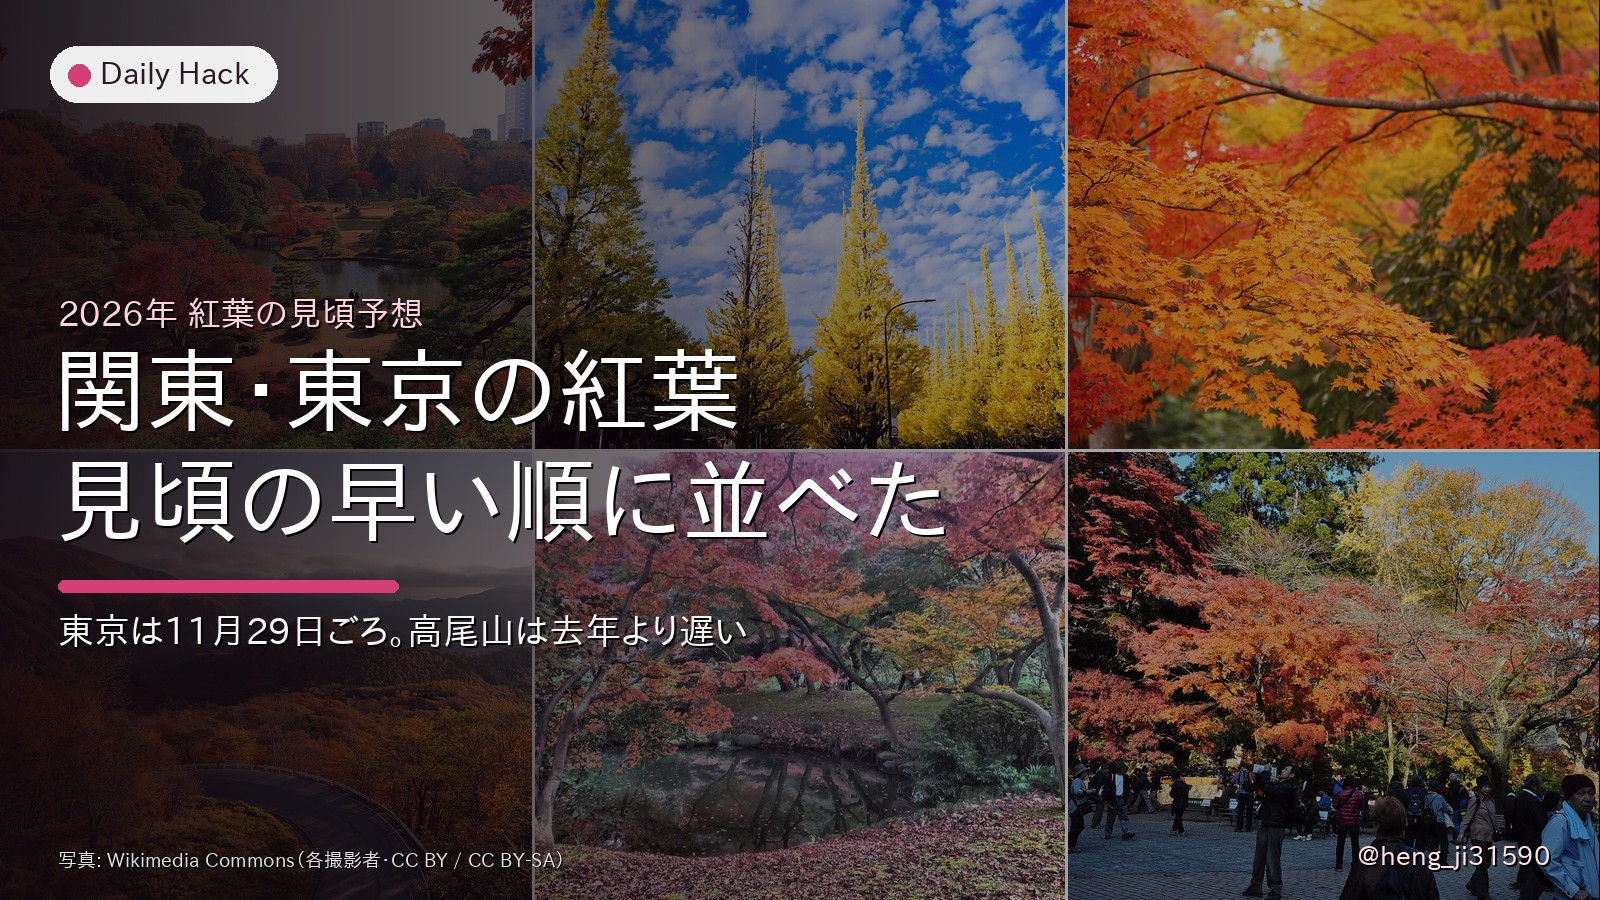
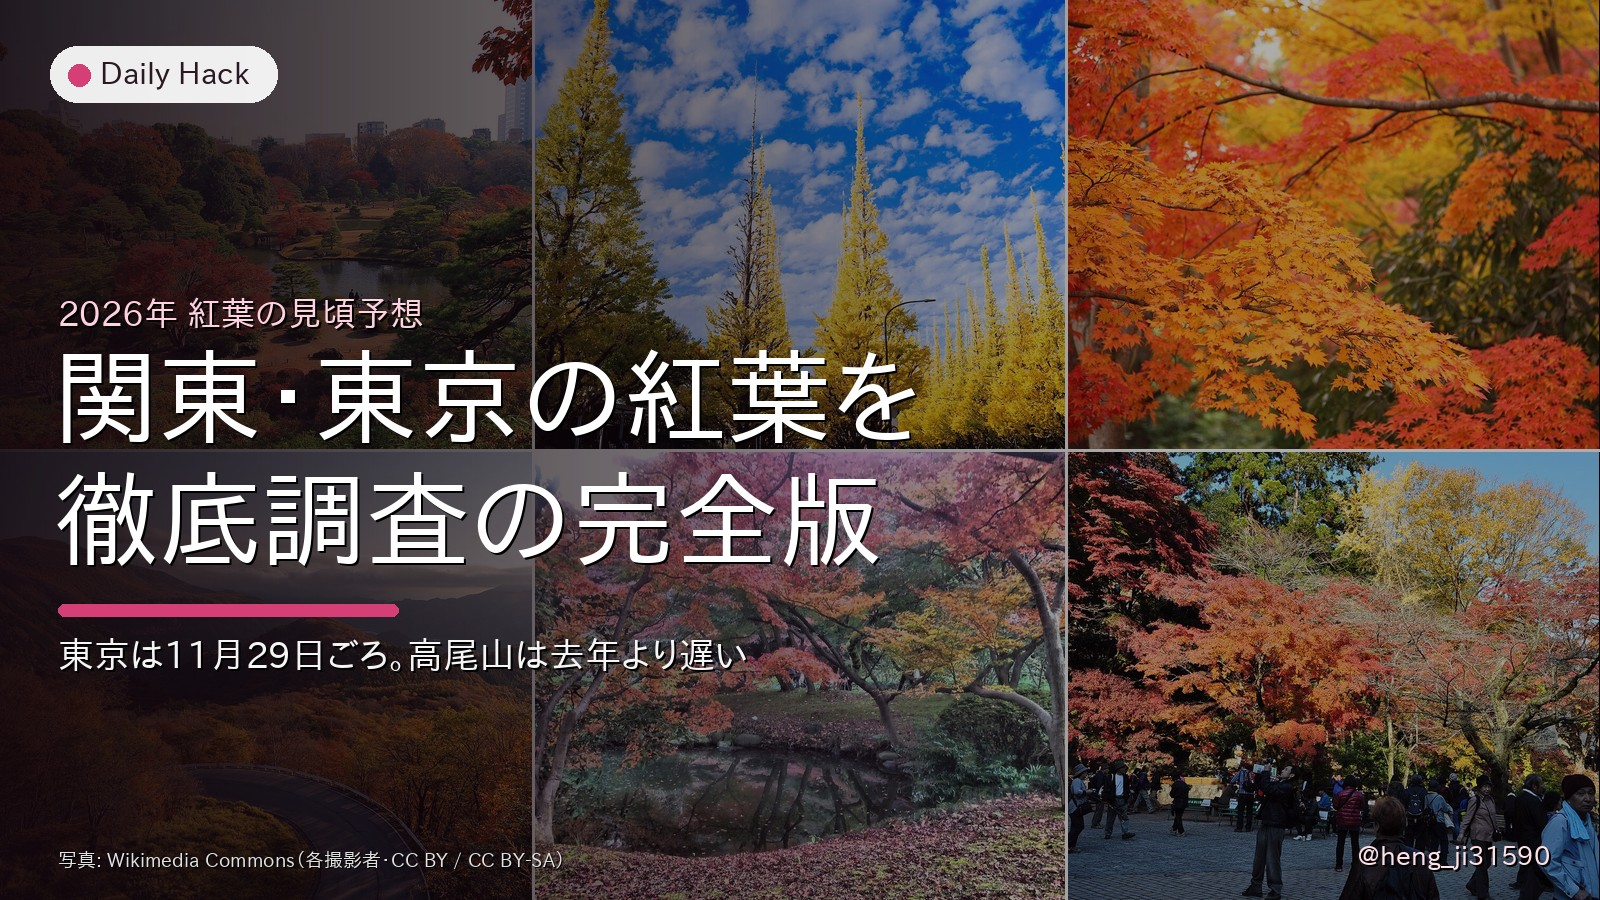
fix: 紅葉記事のプレビュー指摘2件（表紙のタイトル・表の二重枠）
- 表紙の見出しを「関東・東京の紅葉を 徹底調査の完全版」に（タイル・キッカー・サブは据え置き）
- .cmp-table-wrap の中の表が自分の枠線と上下 28px の余白を持ち、外枠の内側に
  もう 1 本の枠と空白の帯が出ていた。中の表の枠・余白・角丸を消す（全記事に効く）

Claude-Session: https://claude.ai/code/session_01RqPaqffepEWsiAkvhJEvmW

Changed region(s): [[0.0312, 0.3733, 0.5938, 0.7467]]

diff --git a/src/styles/global.css b/src/styles/global.css
@@ -488,6 +488,12 @@ footer.foot .pr { margin-top: 6px; }
     -webkit-overflow-scrolling: touch;
   }
 }
+/* **外枠（`.cmp-table-wrap`）の中の表は、自分の枠と余白を持たない。**
+   上の `.post-body table` の枠線と `margin: 28px 0` がそのまま効いて、**外枠の内側に
+   もう 1 本の枠と、上下 28px の空白の帯**が出ていた（2026-10-05 に紅葉記事のプレビューで
+   「この表と外枠に何か余分な線がついてしまっている」と指摘された）。外枠が枠と余白を持つので、
+   中の表は消す。 */
+.post-body .cmp-table-wrap > table { margin: 0; border: 0; border-radius: 0; }
 .post-body table thead th {
   background: #f7f8fa;
   color: #2c3038;
